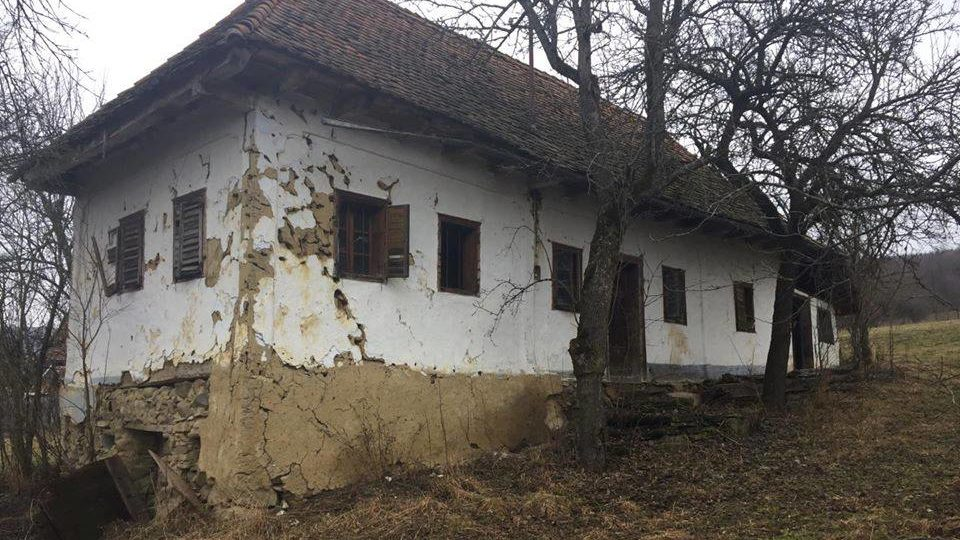
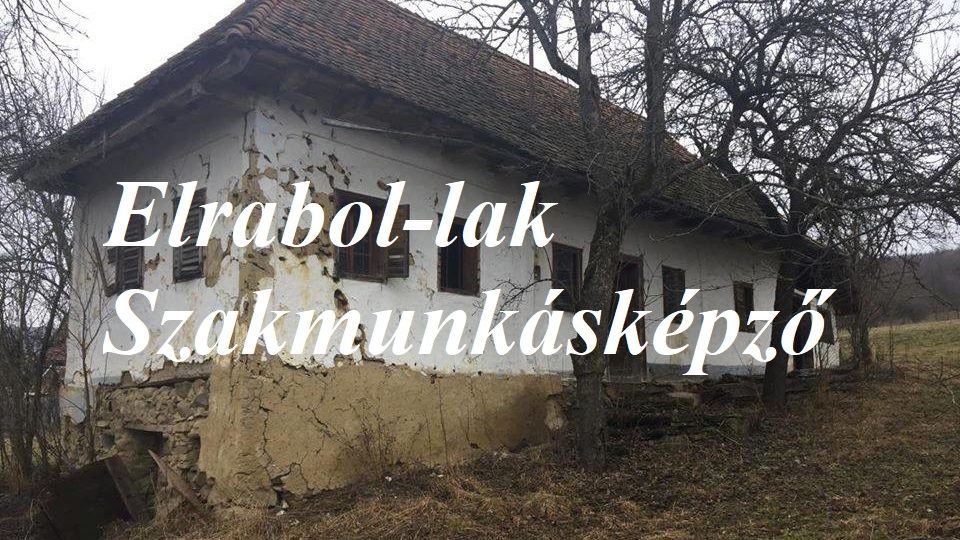
Kellene hogy a navbar középen legyen

Changed region(s): [[0.0938, 0.5333, 0.875, 0.7111], [0.0938, 0.3259, 0.5938, 0.4741]]

diff --git a/Elrabol-Lak/Főoldal.html b/Elrabol-Lak/Főoldal.html
@@ -11,8 +11,8 @@
     <hr>
 </head>
 <body>
-    <h1 class="Főcím1">Elrabol-Lak Szakmunkásképző</h1>
     <header>
+        <img id="header" src="../Képek/header.jpg" alt="Elrabol-Lak Szakmunkásképző">
        <div class="btn-group btn-group-lg">
         <a href="Főoldal.html" class="btn btn-success" role="button">Főoldal</a>
         <a href="tanáraink.html" class="btn btn-success" role="button">Tanáraink</a>
@@ -23,18 +23,53 @@
         <a href="https://gyszc-jedlik.e-kreta.hu/Adminisztracio/Login" class="btn btn-success" target="_blank" rel="noopener">Kréta</a>
        </div>
     </header>
-    <h1 style="text-align: center; color: white;"> A Főoldalon találhatóak híreink, illetve innen veheti igénybe többi szolgáltatásainkat is.</h1>
+    <h1 class="bcim"> A Főoldalon találhatóak híreink, illetve innen veheti igénybe többi szolgáltatásainkat is.</h1>
     <br><hr>
+<table>
+    <tr>
+        <td>
+    <div class="col-lg-3" class="kontener">
+        <a href="események.html">
+                <img class="m-image" src="../Képek/esemenyek_linkpic.jpg" alt="Eseményeink">
+                <div class="morpho">
+                    <div class="m-szoveg">Eseményeink</div>
+                </div>
+        </a> 
+        <a href="tanáraink.html">
+                <img class="m-image" src="../Képek/tanaraink_linkpic.jpg" alt="Tanáraink">
+                <div class="morpho">
+                    <div class="m-szoveg">Órarendünk</div>
+                </div>
+            </a>
+    </div>
+</td>
+<td>
+<div class="col-lg-6">
+    <h2 class="bcim">Egy 11-es diák egy parkolónyi autót szedett szét egy hétvége alatt!</h1>
+    <p class="bszoveg" class="center">A 11. A-s Horváth Zoltán egy nagyon jól teljesítő tanuló, aki az előző tanévben megkapta az Elrabol-lak oklevelet kiemelkedő teljesítményéért.</p>
+    <p class="bszoveg" class="center">Azonban idén rátett még egy lapáttal: 2 nap leforgása alatt nagyjából egy nagyobb parkolónyi, egész pontosan 184 autót szedett szét és adott le az iskola melletti fémtelepen! Ezzel összesen 8,3 millió forintot sikerült bezsebelnie.</p>
+    <p class="bszoveg" class="center">Ezért a hősies tettért iskolánk igazgatója dicséretben részesíti Zoltánt. Mikor kikérdeztük, hogy miért lopott ilyen sokat, csak azt mondta, hogy nagyon unatkozott és nem akart tanulni. Sajnos emiatt a következő nyelvtanóráján elégtelent kapott. Ennek ellenére csak így tovább Zoli, hiszünk benned!</p>
+</div>
+</td>
+<td>
+<div class="col-lg-3">
+        <a href="órarend.html">
+            <img class="m-image" src="../Képek/orarend_linkpic.jpg" alt="Órarendünk">
+            <div class="morpho">
+                <div class="m-szoveg">Órarendünk</div>
+            </div>
+        </a> <a href="rólunk.html">
+            <img class="m-image" src="../Képek/rolunk_linkpic.jpg" alt="Rólunk">
+            <div class="morpho">
+                <div class="m-szoveg">Rólunk</div>
+            </div>
+        </a>
 
-    <h2 style="text-align: center; color: white;">Egy 11-es diák egy parkolónyi autót szedett szét egy hétvége alatt!</h1>
-    <p style="text-align: center; width: 1000px; margin: auto;" class="bszoveg" class="center">A 11. A-s Horváth Zoltán egy nagyon jól teljesítő tanuló, aki az előző tanévben megkapta az Elrabol-lak oklevelet kiemelkedő teljesítményéért.</p>
-    <p style="text-align: center; width: 1000px; margin: auto;" class="bszoveg" class="center">Azonban idén rátett még egy lapáttal: 2 nap leforgása alatt nagyjából egy nagyobb parkolónyi, egész pontosan 184 autót szedett szét és adott le az iskola melletti fémtelepen! Ezzel összesen 8,3 millió forintot sikerült bezsebelnie.</p>
-    <p style="text-align: center; width: 1000px; margin: auto;" class="bszoveg" class="center">Ezért a hősies tettért iskolánk igazgatója dicséretben részesíti Zoltánt. Mikor kikérdeztük, hogy miért lopott ilyen sokat, csak azt mondta, hogy nagyon unatkozott és nem akart tanulni. Sajnos emiatt a következő nyelvtanóráján elégtelent kapott. Ennek ellenére csak így tovább Zoli, hiszünk benned!</p>
-    <img src="../Képek/Zolika.jpg" style="margin-left: 450px;">
-    <p style="color: white; font-size: small; text-align: center;">Egy kép Horváth Zoltánról</p>
-    <br><hr>
-
-    <form>
+</div>
+</td>
+</tr>
+</table>
+<!--    <form>
         <div class="row">
             <div class="col-12 col-md-4">
                 <label for="panelteljesitmeny">Panelteljesítmény [W] : </label>
@@ -74,7 +109,7 @@
             </div>
         </div>
     </form>
-   
+   -->
 
         <p id="info-kartya">
             <img src="../Képek/Iskolánk címere.png" id="címer">

diff --git a/Elrabol-Lak/galéria.html b/Elrabol-Lak/galéria.html
@@ -10,6 +10,7 @@
 </head>
 <body>
     <header>
+        <img id="header" src="../Képek/header.jpg" alt="Elrabol-Lak Szakmunkásképző">
         <div class="btn-group btn-group-lg">
          <a href="Főoldal.html" class="btn btn-success" role="button">Főoldal</a>
          <a href="tanáraink.html" class="btn btn-success" role="button">Tanáraink</a>
@@ -24,8 +25,83 @@
       <h1 style="text-align: center; width: 1000px; margin: auto;" class="bszoveg" class="center" font-weigh="bold">Üdvözöljük iskolánk galériájában!</h1>
       <p style="text-align: center; width: 1000px; margin: auto;" class="bszoveg" class="center">Ezen az oldalon az iskolánk által készített, nagyobb eseményeken összegyűjtött fényképeket tekinthetnek meg.</p>
       <br>
-      <p style="text-align: center; width: 1000px; margin: auto;" class="bszoveg" class="center">Osztálykirándulás Pécsett a 9.E osztállyal. 27-en vettek részt, ebből 26-an legalább 200 000 forintnak megfelelő értékű fémet loptak.</p>
-      <img src="../Képek/kirándulás1.jpg" style="margin-left: 400px; width: 700px">
+
+      <!--Nesztek java script: https://www.w3schools.com/howto/howto_js_image_grid.asp 
+        Már csak meg kell tölteni képekkel.
+        -->
+
+      <div class="sor"> 
+        <div class="column">
+          <img src="" style="width:100%">
+          <img src="" style="width:100%">
+          <img src="" style="width:100%">
+          <img src="" style="width:100%">
+          <img src="" style="width:100%">
+          <img src="" style="width:100%">
+          <img src="" style="width:100%">
+        </div>
+        <div class="column">
+          <img src="" style="width:100%">
+          <img src="" style="width:100%">
+          <img src="" style="width:100%">
+          <img src="" style="width:100%">
+          <img src="" style="width:100%">
+          <img src="" style="width:100%">
+        </div>  
+        <div class="column">
+          <img src="" style="width:100%">
+          <img src="" style="width:100%">
+          <img src="" style="width:100%">
+          <img src="" style="width:100%">
+          <img src="" style="width:100%">
+          <img src="" style="width:100%">
+          <img src="" style="width:100%">
+        </div>
+        <div class="column">
+          <img src="" style="width:100%">
+          <img src="" style="width:100%">
+          <img src="" style="width:100%">
+          <img src="" style="width:100%">
+          <img src="" style="width:100%">
+          <img src="" style="width:100%">
+        </div>
+      </div>
+      
+      <script>
+      var elements = document.getElementsByClassName("column");
+      var i;
+      
+      function one() {
+          for (i = 0; i < elements.length; i++) {
+          elements[i].style.msFlex = "100%";
+          elements[i].style.flex = "100%";
+        }
+      }
+      
+      function two() {
+        for (i = 0; i < elements.length; i++) {
+          elements[i].style.msFlex = "50%";
+          elements[i].style.flex = "50%";
+        }
+      }
+      
+      function four() {
+        for (i = 0; i < elements.length; i++) {
+          elements[i].style.msFlex = "25%";
+          elements[i].style.flex = "25%";
+        }
+      }
+      
+      var header = document.getElementById("myHeader");
+      var btns = header.getElementsByClassName("gombu");
+      for (var i = 0; i < btns.length; i++) {
+        btns[i].addEventListener("click", function() {
+          var current = document.getElementsByClassName("active");
+          current[0].className = current[0].className.replace(" active", "");
+          this.className += " active";
+        });
+      }
+      </script>
 
 
 

diff --git a/Elrabol-Lak/minden.css b/Elrabol-Lak/minden.css
@@ -30,9 +30,9 @@ body {
     background-color: rgb(53, 51, 51);
 }
 
-header {
-    margin-right: 50px;
-    margin-left: 50px;
+#header {
+    margin-right: 450px;
+    margin-left: 450px;
 }
 
 .kontener {
@@ -40,10 +40,10 @@ header {
     width: 50%;
 }
 
-.image {
+.m-image {
     opacity: 1;
     display: block;
-    width: 100%;
+    width: 400px;
     height: auto;
     transition: .5s ease;
     backface-visibility: hidden;
@@ -156,7 +156,7 @@ idáig afadelős kép ami adja acímét
     position: absolute; 
     bottom: 0; 
     background: rgb(0, 0, 0);
-    background: rgba(0, 0, 0, 0.5); /* Black see-through */
+    background: rgba(0, 0, 0, 0.5);
     color: #f1f1f1; 
     width: 100%;
     transition: .5s ease;
@@ -174,3 +174,42 @@ idáig afadelős kép ami adja acímét
   .container:hover .overlay {
     opacity: 1;
   }
+
+  .sor {
+    display: -ms-flexbox;
+    display: flex;
+    -ms-flex-wrap: wrap;
+    flex-wrap: wrap;
+    padding: 0 4px;
+  }
+  
+
+  .column {
+    -ms-flex: 50%;
+    flex: 50%;
+    padding: 0 4px;
+  }
+  
+  .column img {
+    margin-top: 8px;
+    vertical-align: middle;
+  }
+  
+  .gombu {
+    border: none;
+    outline: none;
+    padding: 10px 16px;
+    background-color: #f1f1f1;
+    cursor: pointer;
+    font-size: 18px;
+  }
+  
+  .gombu:hover {
+    background-color: #ddd;
+  }
+  
+  .gombu.active {
+    background-color: #666;
+    color: white;
+  }
+  

diff --git a/Elrabol-Lak/események.html b/Elrabol-Lak/események.html
@@ -12,6 +12,7 @@
 
     <header>
         <div class="btn-group btn-group-lg">
+            <img id="header" src="../Képek/header.jpg" alt="Elrabol-Lak Szakmunkásképző">
          <a href="Főoldal.html" class="btn btn-success" role="button">Főoldal</a>
          <a href="tanáraink.html" class="btn btn-success" role="button">Tanáraink</a>
          <a href="események.html" class="btn btn-success" role="button">Események</a>

diff --git a/Elrabol-Lak/rólunk.html b/Elrabol-Lak/rólunk.html
@@ -10,6 +10,7 @@
 </head>
 <body>
     <header>
+        <img id="header" src="../Képek/header.jpg" alt="Elrabol-Lak Szakmunkásképző">
         <div class="btn-group btn-group-lg">
          <a href="Főoldal.html" class="btn btn-success" role="button">Főoldal</a>
          <a href="tanáraink.html" class="btn btn-success" role="button">Tanáraink</a>

diff --git a/Elrabol-Lak/órarend.html b/Elrabol-Lak/órarend.html
@@ -10,6 +10,7 @@
 </head>
 <body>
     <header>
+        <img id="header" src="../Képek/header.jpg" alt="Elrabol-Lak Szakmunkásképző">
         <div class="btn-group btn-group-lg">
          <a href="Főoldal.html" class="btn btn-success" role="button">Főoldal</a>
          <a href="tanáraink.html" class="btn btn-success" role="button">Tanáraink</a>
